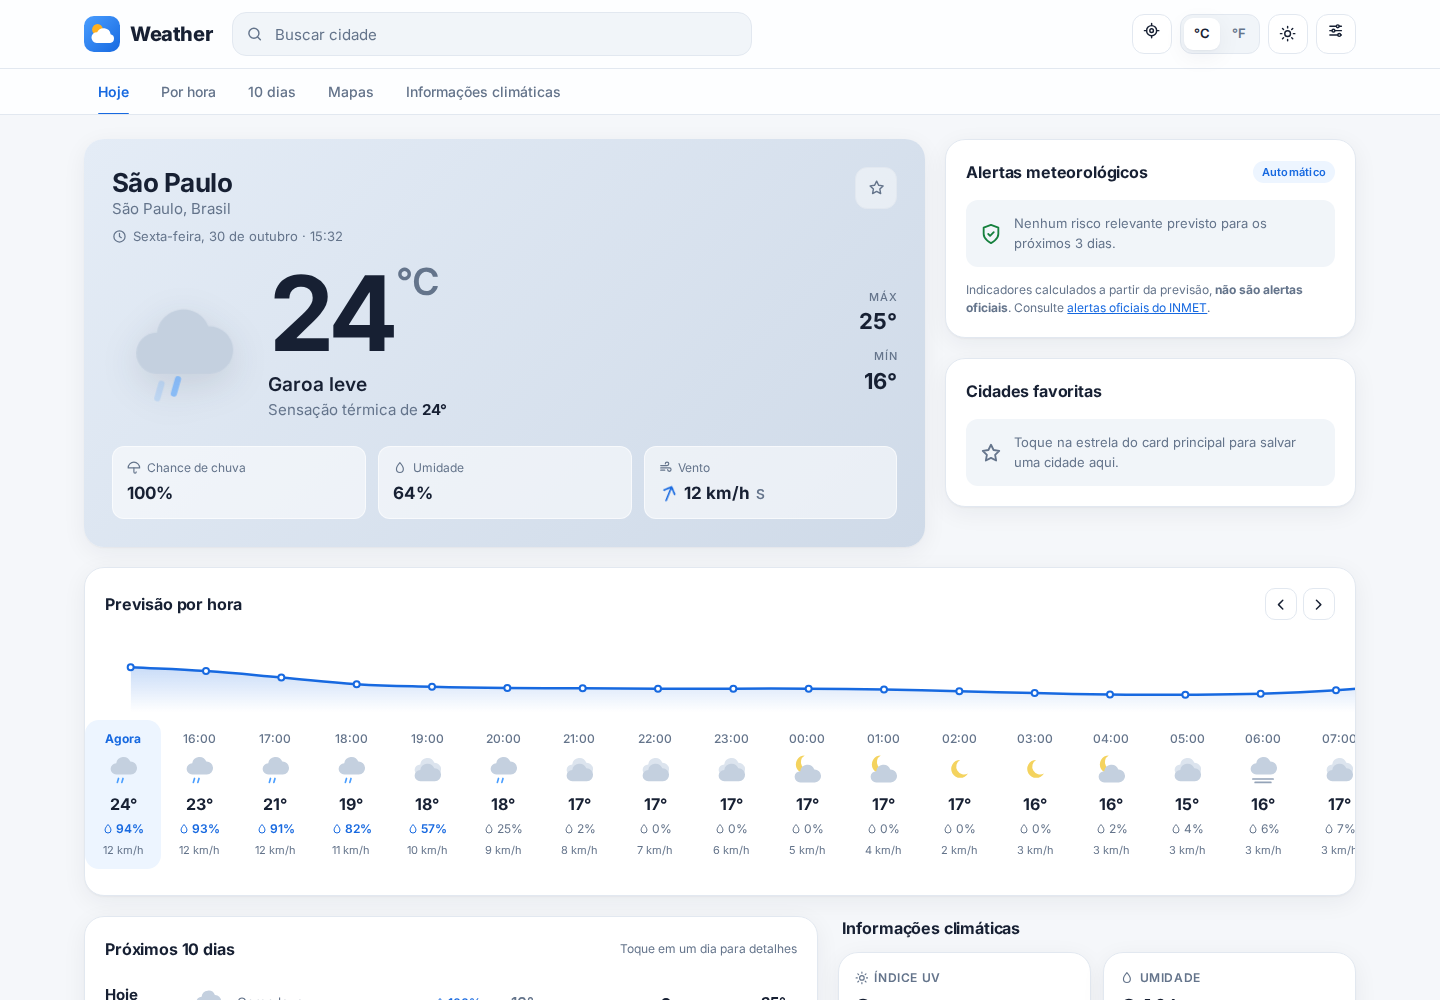
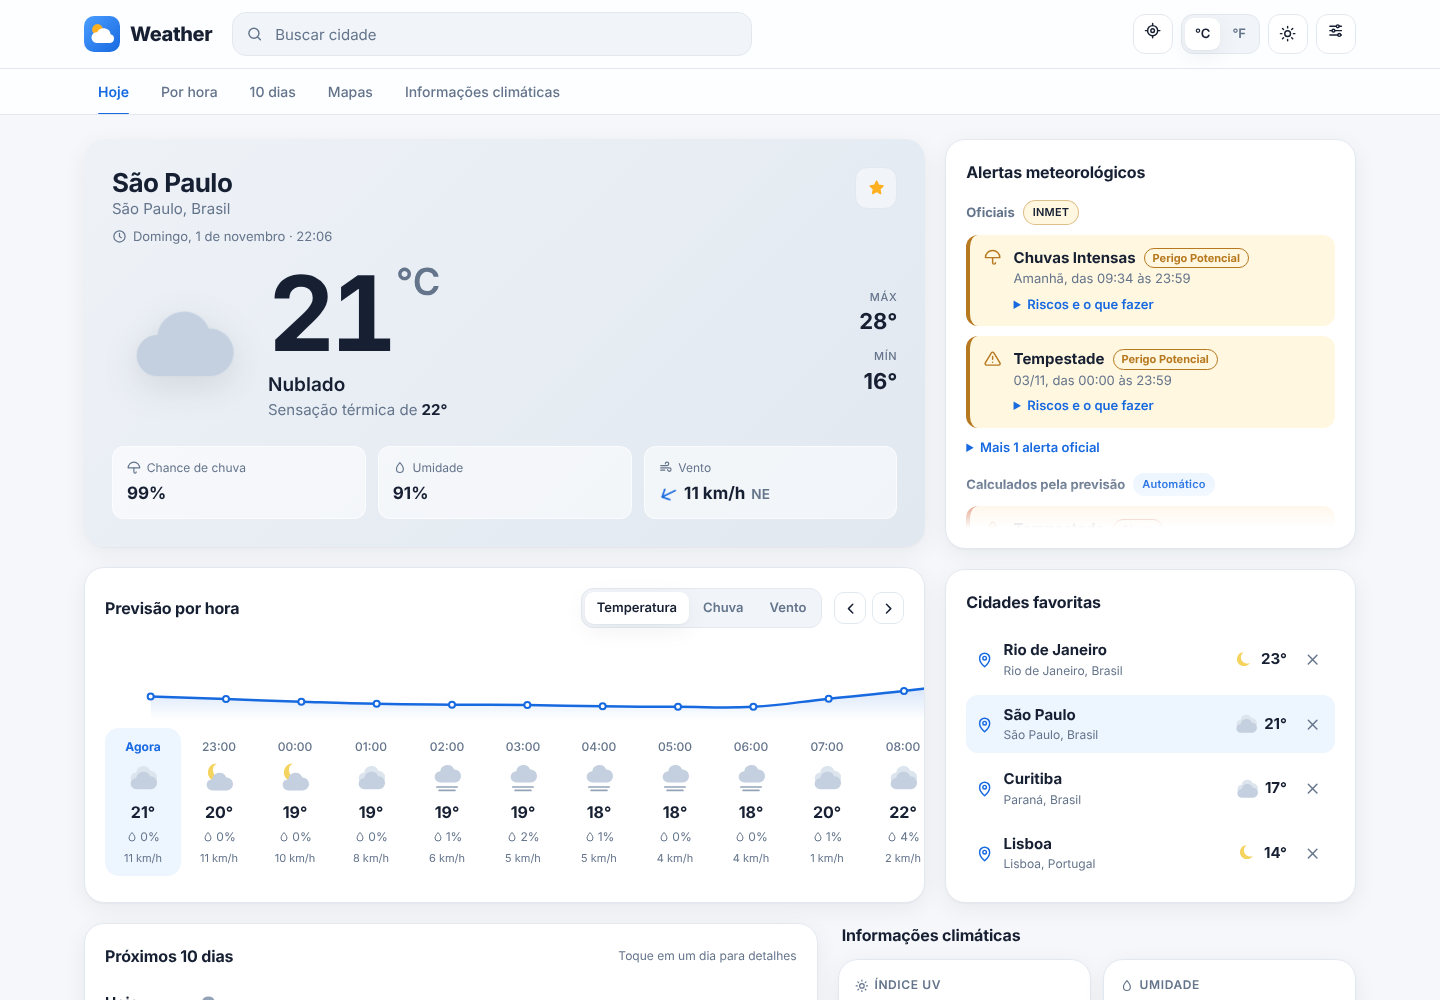
Atualiza os prints do painel no README
- Painel claro (São Paulo), painel escuro completo (Rio de Janeiro),
  celular e tela inicial tirados de novo com dados reais da Open-Meteo.
- Os prints agora mostram os alertas oficiais do INMET separados dos
  automáticos, os favoritos com a temperatura de agora, as abas da
  previsão por hora, o IQAr e o botão Temperatura no mapa.
- Descrições das imagens no README atualizadas.

Claude-Session: https://claude.ai/code/session_016B33VCUmdfFRFeAmJsYvNz

diff --git a/README.md b/README.md
@@ -11,11 +11,11 @@ Tem duas formas de usar: no terminal e num painel web completo.
 
 **Painel web (modo claro)**
 
-![Painel web no modo claro mostrando o clima atual de São Paulo e a previsão por hora](docs/painel-claro.png)
+![Painel web no modo claro com o clima atual de São Paulo, alertas oficiais do INMET, cidades favoritas com a temperatura de agora e a previsão por hora](docs/painel-claro.png)
 
 **Painel completo (modo escuro)**
 
-![Painel web no modo escuro com clima atual, previsão por hora, 10 dias, indicadores, qualidade do ar e mapa](docs/painel-escuro.png)
+![Painel web no modo escuro com clima atual do Rio de Janeiro, alertas oficiais do INMET, favoritos, previsão por hora, 10 dias, indicadores, qualidade do ar (IQAr) e mapa](docs/painel-escuro.png)
 
 <table>
   <tr>
